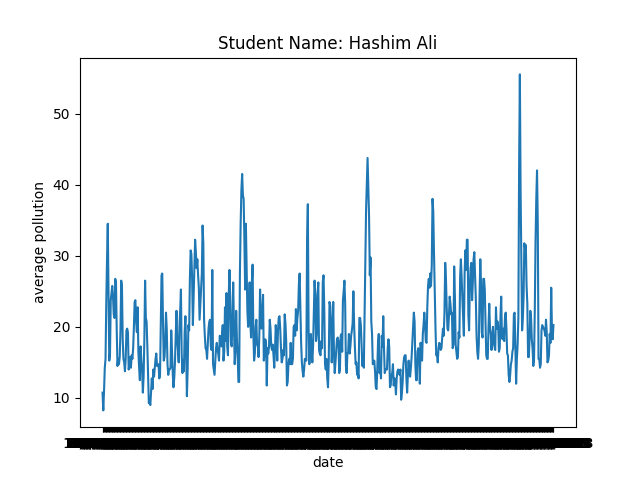
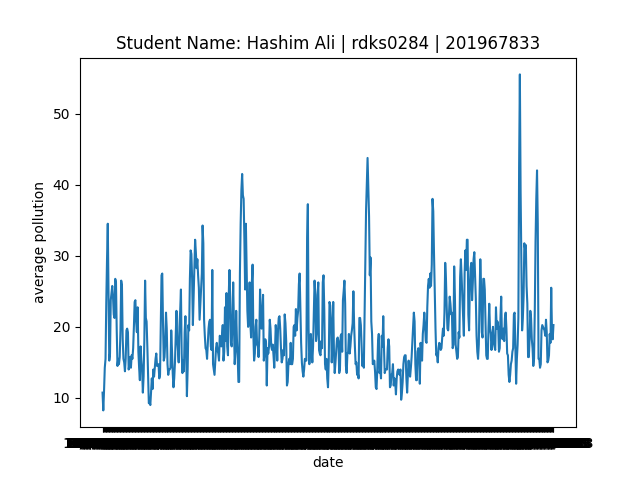
end of worksheet 9

Changed region(s): [[0.1875, 0.0625, 0.8438, 0.125]]

diff --git a/t2-graph/air-plotter.py b/t2-graph/air-plotter.py
@@ -11,25 +11,29 @@ You would plot a point at (68+20+25+5)/4 = 29.5
 
 The X-axis should be the date, the Y-axis should be the average pollution.
 '''
+'''Student Name: Hashim Ali
+Student ID: 201967833'''
 
 import matplotlib.pyplot as plt
 import pandas as pd
 
-
-
 x = []
 y = []
 
+# Read CSV file
 data = pd.read_csv("leeds-centre-air-quality.csv", header=None, skiprows=1)
+# Iterate through each row in CSV file
 for i, row in data.iterrows():
     if row.isnull().all():
         break
     x.append(row[0])
+    # Calculate average of 4 values
     y.append((int(row[1]) + int(row[2]) + int(row[3]) + int(row[4]))/4)
 
+# Plot the graph
 plt.plot(x, y)
 
-plt.title("Student Name: Hashim Ali")
+plt.title("Student Name: Hashim Ali | rdks0284 | 201967833")
 plt.xlabel("date")
 plt.ylabel("average pollution")
 plt.savefig("PLOT.png")
